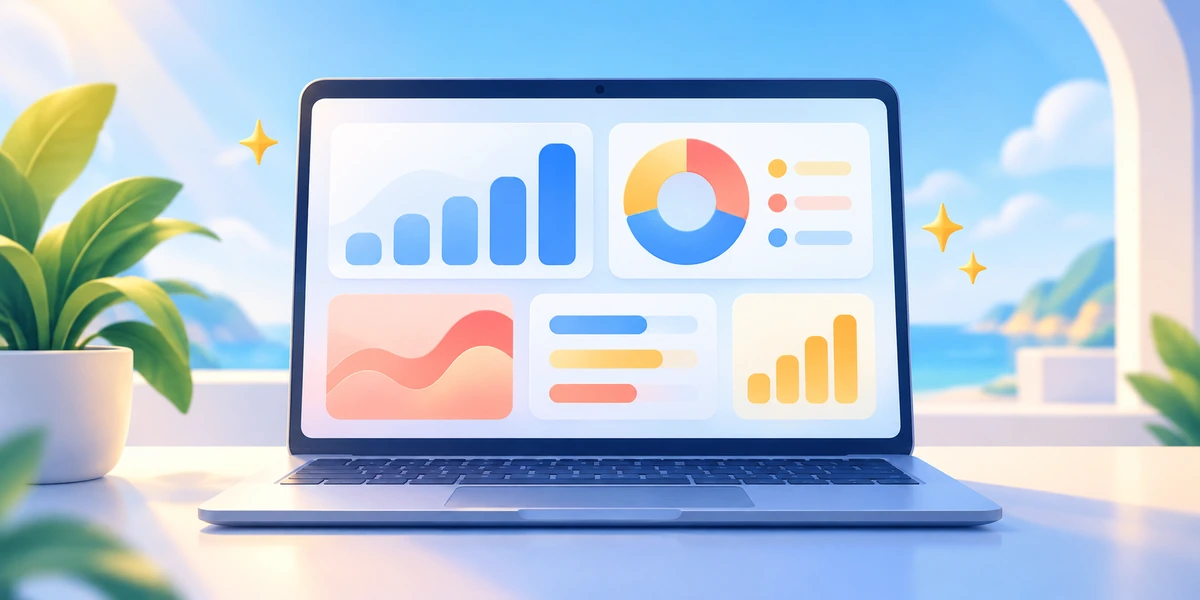
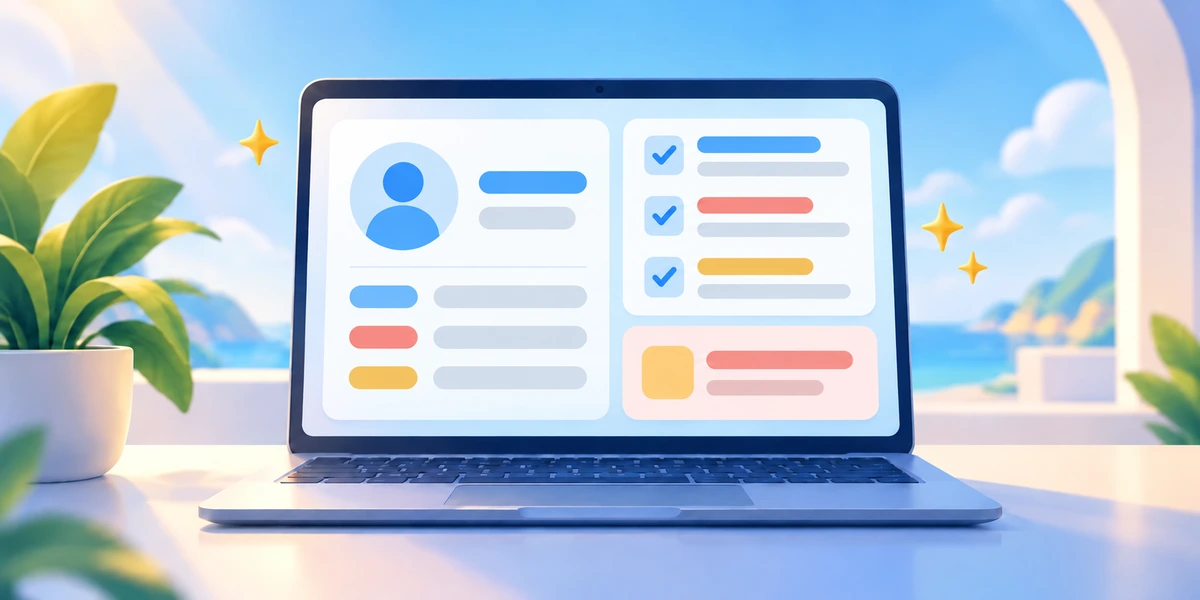
Replace the product update image with the profile and checklist version

diff --git a/src/imports/BroadcastStudio/presetImages.tsx b/src/imports/BroadcastStudio/presetImages.tsx
@@ -21,7 +21,7 @@ export interface PresetImage {
 export const PRESET_IMAGES: PresetImage[] = [
   { id: 'launch', name: 'Launch', alt: 'A rocket lifting off from a desk by a sunny window', icon: MdRocketLaunch, tint: '#E8F4FF', ink: '#2699FB' },
   { id: 'vacation', name: 'Break', alt: 'A nurse taking a coffee break at her desk', icon: MdBeachAccess, tint: '#E5F6FD', ink: '#0B83B8' },
-  { id: 'product-update', name: 'Product update', alt: 'A laptop showing a dashboard of colourful charts', icon: MdDashboard, tint: '#EAF0F7', ink: '#27496D' },
+  { id: 'product-update', name: 'Product update', alt: 'A laptop showing a profile and a completed checklist', icon: MdDashboard, tint: '#EAF0F7', ink: '#27496D' },
   { id: 'mobile', name: 'Mobile', alt: 'A hand holding a phone with a notification bell', icon: MdPhoneIphone, tint: '#EEF0FB', ink: '#5B5FC7' },
   { id: 'growth', name: 'Growth', alt: 'A plant growing from the tallest bar of a rising chart', icon: MdTrendingUp, tint: '#E7F7EC', ink: '#1E9E46' },
   { id: 'teamwork', name: 'Teamwork', alt: 'Three healthcare staff looking at a tablet together', icon: MdGroups, tint: '#E6F6F6', ink: '#178A8A' },
